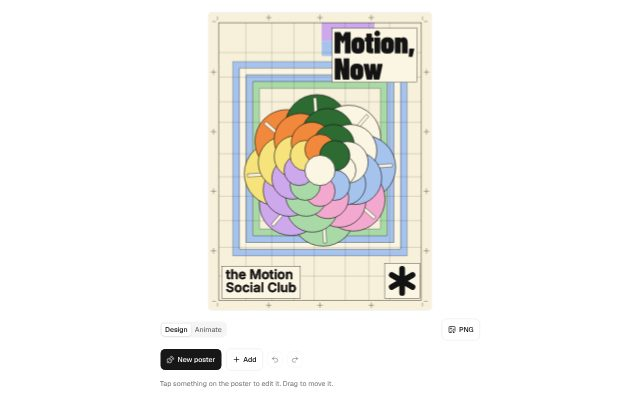
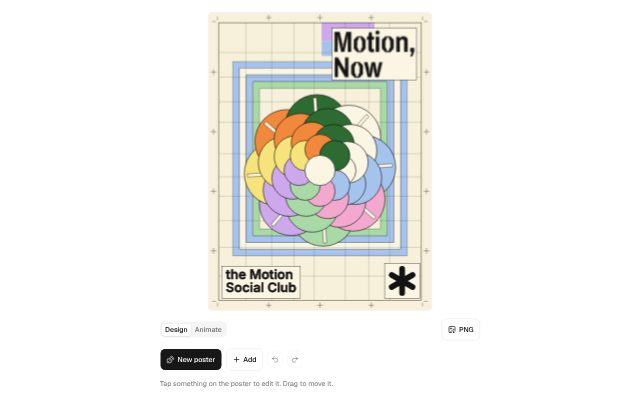
Playground: KV Posters, headlines in Archivo Narrow with the KV type treatment
Same lib/kv pipeline as the Studio's Letters cell: facets, keyhole notches,
round dots and the inked edge; outlined in line art.

Claude-Session: https://claude.ai/code/session_01TARX4bFFU8dum9PbtFbYFe

Changed region(s): [[0.5, 0.06, 0.6562, 0.21]]

diff --git a/playground/app/prototypes/kv-posters/draw-type.ts b/playground/app/prototypes/kv-posters/draw-type.ts
@@ -1,64 +1,32 @@
-import { getFont } from "@/lib/kv/fonts";
+import { DEFAULT_TYPE, type HeadlineLayer } from "@/lib/kv/model";
+import { drawHeadline as drawKvHeadline, tracePath, typeGeometry } from "@/lib/kv/render/type";
 import { fillOf, type Pen } from "./draw-shapes";
 import type { Headline, Lockup } from "./types";
 
-interface Set {
-  path: Path2D;
-  x: number;
-  y: number;
-  w: number;
-  h: number;
-}
-
-const cache = new Map<string, Set>();
-const LEADING = 0.86;
-
-/** Headline outlines from Barlow Condensed Black (opentype.js), origin at the first baseline. */
-export function headlineSet(text: string, size: number): Set {
-  const key = `${text}|${size}`;
-  const hit = cache.get(key);
-  if (hit) return hit;
-  const font = getFont("barlow");
-  const em = size / font.unitsPerEm;
-  const path = new Path2D();
-  let x0 = Infinity, y0 = Infinity, x1 = -Infinity, y1 = -Infinity;
-  text.split("\n").forEach((line, li) => {
-    let pen = 0;
-    let prev: ReturnType<typeof font.charToGlyph> | null = null;
-    for (const ch of line) {
-      const g = font.charToGlyph(ch);
-      if (prev) pen += font.getKerningValue(prev, g) * em;
-      for (const c of g.getPath(pen, li * size * LEADING, size).commands) {
-        if (c.type === "Z") path.closePath();
-        else {
-          if (c.type === "M") path.moveTo(c.x, c.y);
-          else if (c.type === "L") path.lineTo(c.x, c.y);
-          else if (c.type === "Q") path.quadraticCurveTo(c.x1, c.y1, c.x, c.y);
-          else if (c.type === "C") path.bezierCurveTo(c.x1, c.y1, c.x2, c.y2, c.x, c.y);
-          x0 = Math.min(x0, c.x); x1 = Math.max(x1, c.x); y0 = Math.min(y0, c.y); y1 = Math.max(y1, c.y);
-        }
-      }
-      pen += (g.advanceWidth ?? 0) * em - size * 0.01;
-      prev = g;
-    }
-  });
-  const set = { path, x: x0, y: y0, w: x1 - x0, h: y1 - y0 };
-  cache.set(key, set);
-  return set;
+/**
+ * Headlines use the KV type treatment from lib/kv (the same as the Studio's Letters cell):
+ * Archivo Narrow Bold outlines, octagonal facets, keyhole notches in tall counters, round dots
+ * and the printed-ink edge.
+ */
+function kvLayer(h: Pick<Headline, "id" | "text" | "size">, x = 0, y = 0): HeadlineLayer {
+  return { ...DEFAULT_TYPE, id: h.id, type: "headline", name: "", visible: true, locked: false, text: h.text, x, y, size: h.size, font: "narrow", tracking: -0.01, leading: 0.88, fill: "ink" };
 }
 
 const pad = (size: number) => size * 0.08;
 
+/** Ink box of the headline relative to its anchor (first baseline). */
+const inkBox = (h: Pick<Headline, "id" | "text" | "size">) => typeGeometry(kvLayer(h)).bbox;
+
 /** Box size of a headline (horizontal), padding included. */
 export function headlineBox(text: string, size: number) {
-  const s = headlineSet(text, size);
-  return { w: s.w + 2 * pad(size), h: s.h + 2 * pad(size) };
+  const b = inkBox({ id: "m", text, size });
+  return { w: b.w + 2 * pad(size), h: b.h + 2 * pad(size) };
 }
 
 export function drawHeadline(ctx: CanvasRenderingContext2D, h: Headline, pen: Pen, p: number) {
   if (p <= 0) return;
-  const s = headlineSet(h.text, h.size);
-  const b = headlineBox(h.text, h.size);
+  const ink = inkBox(h);
+  const b = { w: ink.w + 2 * pad(h.size), h: ink.h + 2 * pad(h.size) };
   ctx.save();
   if (h.vertical) {
     ctx.translate(h.x + b.h, h.y);
@@ -76,16 +44,19 @@ export function drawHeadline(ctx: CanvasRenderingContext2D, h: Headline, pen: Pe
   ctx.rect(0, 0, b.w, b.h);
   ctx.clip();
   const k = 1 - (1 - Math.min(1, Math.max(0, p * 1.4 - 0.3))) ** 3;
-  ctx.translate(pad(h.size) - s.x, pad(h.size) - s.y + (1 - k) * b.h);
+  // the reveal moves the whole context so the inked raster stays cached at a fixed position
+  ctx.translate(0, (1 - k) * b.h);
+  const layer = kvLayer(h, Math.round(pad(h.size) - ink.x), Math.round(pad(h.size) - ink.y));
   if (pen.line) {
+    ctx.beginPath();
+    tracePath(ctx, typeGeometry(layer).contours, layer.x, layer.y);
     ctx.fillStyle = pen.pal.paper;
-    ctx.fill(s.path);
+    ctx.fill("nonzero");
     ctx.strokeStyle = pen.pal.ink;
     ctx.lineWidth = pen.lw;
-    ctx.stroke(s.path);
+    ctx.stroke();
   } else {
-    ctx.fillStyle = pen.pal.ink;
-    ctx.fill(s.path);
+    drawKvHeadline(ctx, layer, { scale: pen.scale, compWidth: 1080, color: () => pen.pal.ink });
   }
   ctx.restore();
 }

diff --git a/playground/app/prototypes/kv-posters/render.ts b/playground/app/prototypes/kv-posters/render.ts
@@ -18,7 +18,7 @@ const BACK = new Set(["block", "bands"]);
 export function render(ctx: CanvasRenderingContext2D, p: Poster, pal: Palette, o: RenderOpts) {
   ctx.save();
   ctx.setTransform(o.scale, 0, 0, o.scale, 0, 0);
-  const pen: Pen = { pal, lw: Math.max(1.5, p.width * 0.0027), line: p.line };
+  const pen: Pen = { pal, lw: Math.max(1.5, p.width * 0.0027), line: p.line, scale: o.scale };
   drawPaper(ctx, p, pal, o.grain);
   const st = (e: Element) => o.anim?.els.get(e.id) ?? { p: 1, spin: 0 };
   for (const e of p.elements) if (BACK.has(e.kind)) draw(ctx, e, pen, st(e).p, st(e).spin);

diff --git a/playground/app/prototypes/kv-posters/draw-shapes.ts b/playground/app/prototypes/kv-posters/draw-shapes.ts
@@ -6,6 +6,8 @@ export interface Pen {
   lw: number;
   /** line-art mode: every fill is paper */
   line: boolean;
+  /** device px per poster px (for the inked headline raster) */
+  scale: number;
 }
 
 export const fillOf = (pen: Pen, s: keyof Palette) => (pen.line && s !== "ink" ? pen.pal.paper : pen.pal[s]);
